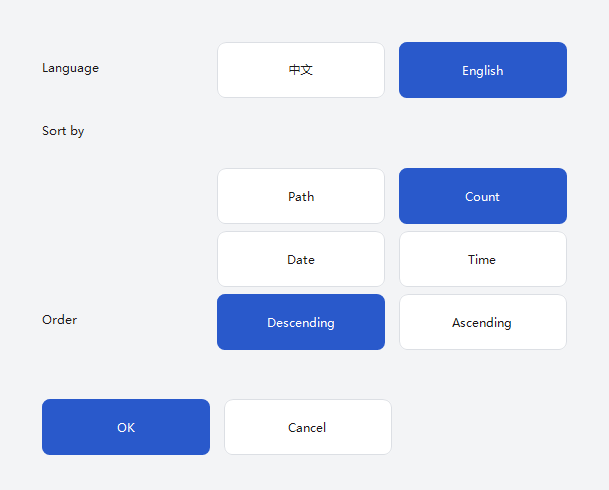
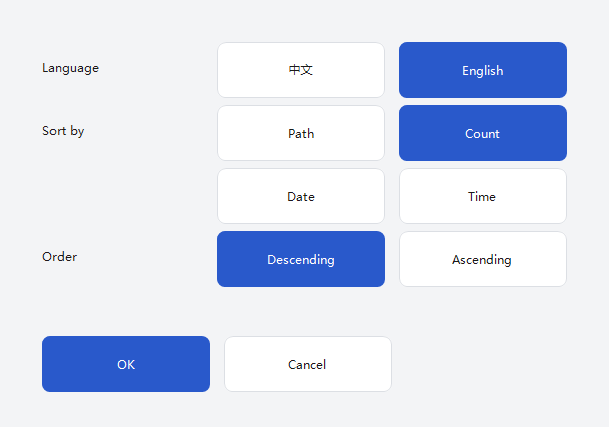
修复：设置窗口的标签飘在按钮上方
标签改为与第一块按钮**垂直居中**，不再独占一行
（用户：把标题「排序方式」和右边的按钮水平对齐，你自己看看现在怪不怪）。
高度也相应改为只按按钮块数算；新增 verify_gui 的居中守卫（139 项）。

diff --git a/src/file_tracker/widgets.py b/src/file_tracker/widgets.py
@@ -868,19 +868,14 @@ class ThemedDialog(wx.Dialog):
         self.Refresh()
 
 
-def _row_lines(label, chunks, content_width: int, gap: int) -> int:
-    """这一行占几**行**：能同行是 1，放不下就是"标签一行 + 按钮块数"。
+def _row_height_lines(chunks) -> int:
+    """一组按钮块占几**行**（不含标签）。
 
-    **`_layout`（算高度）与 `_place_rows`（摆位置）都调它。**
-    这个判据原来在两处各写了一遍——而"两处实现迟早不一致"
-    正是本项目反复修过的那类缺陷（`set_icon`、`load_last_directory`、
-    分隔线几何都栽在这上面）。写成函数就不可能分叉。
+    标签**不额外占行**：它与第一块按钮垂直居中（见 `_place_rows`）。
+    这一点是用户指出的——早先让标签独占一行，于是"排序方式"孤零零飘在
+    按钮上方，既不对称也不像"这一行的标题"。
     """
-    buttons_width = (sum(b.GetBestSize().width for b in chunks[0])
-                     + gap * (len(chunks[0]) - 1))
-    if len(chunks) == 1 and _label_width(label) + gap + buttons_width <= content_width:
-        return 1
-    return 1 + len(chunks)
+    return len(chunks)
 
 
 def _label_width(label) -> int:
@@ -931,7 +926,8 @@ def _wrap_buttons(buttons, content_width: int, gap: int,
     * 后续行预算 = ``content_width``
     * **每块至少两个**——一行一个太散，不像"一组里选一个"。
       所以首行预算不够放两个时，就退回用整条内容宽
-      （那时标签会独占一行，见 :func:`_row_lines`）。
+      （那时首行预算退回整条内容宽——标签仍与第一块**垂直居中**，
+      只是水平方向不再与按钮同行）。
     """
     if not buttons:
         return [[]]
@@ -1229,12 +1225,10 @@ class SettingsDialog(ThemedDialog):
             for label, buttons in groups
         )
 
-        # 高度按"这一行占几行"算，判据与 `_place_rows` **共用**
-        # `_row_lines`，两处不可能分叉。
+        # 高度 = 按钮块数 × 行高。**标签不额外占行**（它与第一块垂直居中）。
         body_height = 0
-        for label, chunks in self._rows:
-            body_height += (row_height + row_gap) * _row_lines(
-                label, chunks, content_width, gap)
+        for _label, chunks in self._rows:
+            body_height += (row_height + row_gap) * _row_height_lines(chunks)
         body_height -= row_gap                     # 末尾那一次多加的
 
         client_width = content_width + margin * 2
@@ -1275,13 +1269,12 @@ class SettingsDialog(ThemedDialog):
             # 见 `_label_width` 的说明）。
             label_height = label.GetSize().height
             label_width = _label_width(label)
+
+            # **标签与第一块按钮垂直居中，不额外占行。**
+            # 早先让它独占一行，结果"排序方式"飘在按钮上方——
+            # 用户直接指出"你自己看看现在怪不怪"。
             label.SetSize(left, y + max((row_pitch - label_height) // 2, 0),
                           label_width, label_height)
-
-            # 与标签同一行，还是另起一行？判据与 `_layout` 共用
-            # `_row_lines`——两处用同一个函数，不会再分叉。
-            if _row_lines(label, chunks, content_width, gap) > len(chunks):
-                y += row_pitch          # 标签单独占一行
 
             for index, chunk in enumerate(chunks):
                 row_top = y + index * row_pitch

diff --git a/tools/verify_gui.py b/tools/verify_gui.py
@@ -1257,6 +1257,31 @@ def main() -> int:
             else "标签与按钮同行时留出间距，放不下则标签独占一行",
         )
 
+        # **标签要与第一行按钮垂直居中对齐。**
+        #
+        # 用户截图："把标题「排序方式」和右边的按钮水平对齐，
+        # 你自己看看现在怪不怪" —— 那一版让标签**独占一行**，
+        # 于是它孤零零飘在按钮上方。标签是"这一行的标题"，
+        # 就该与这一行的按钮在同一条基线上。
+        misaligned = []
+        for label, chunks in sort_probe._rows:
+            buttons = chunks[0]
+            if not buttons:
+                continue
+            label_rect = label.GetRect()
+            button_rect = buttons[0].GetRect()
+            label_mid = label_rect.y + label_rect.height // 2
+            button_mid = button_rect.y + button_rect.height // 2
+            if abs(label_mid - button_mid) > 3:
+                misaligned.append(
+                    (label.GetLabel(), label_mid, button_mid))
+        check(
+            "设置窗口的标签与第一行按钮垂直居中（不再飘在上方）",
+            not misaligned,
+            f"中心不对齐的 = {misaligned}" if misaligned
+            else "三个标签的中心都落在各自第一行按钮的中心上",
+        )
+
         check(
             "阳性对照：当前选中项被标成 accent（一眼看出选的是哪个）",
             [b.variant for b in sort_probe._sort_buttons].count("accent") == 1
